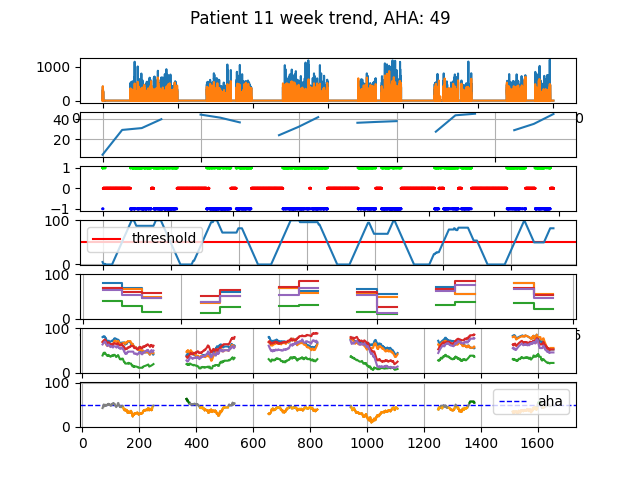
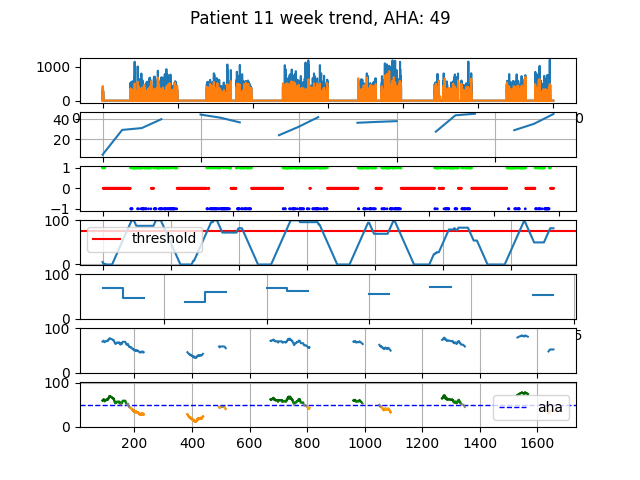
Aggiunto file per la correlazione TESI_plot_corcoeff

diff --git a/Rinnovo Val - Test/main_test.py b/Rinnovo Val - Test/main_test.py
@@ -33,7 +33,9 @@ best_estimators_df = pd.read_csv('best_estimators_results.csv', index_col=0).sor
 #estimators_specs_list.append(best_estimators_df[best_estimators_df['method'] == 'ai'].iloc[0])
 #estimators_specs_list.append(best_estimators_df[best_estimators_df['method'] == 'difference'].iloc[0])
 #estimators_specs_list = [row for index, row in best_estimators_df[(best_estimators_df['mean_test_score'] >= 0.975) & (best_estimators_df['window_size'] == 600)].iterrows()]
-estimators_specs_list = [row for index, row in best_estimators_df[(best_estimators_df['mean_test_score'] >= 0.938) & (best_estimators_df['window_size'] == 300)].iterrows()]
+#estimators_specs_list = [row for index, row in best_estimators_df[(best_estimators_df['mean_test_score'] >= 0.938) & (best_estimators_df['window_size'] == 300)].iterrows()]
+
+estimators_specs_list = [row for index, row in best_estimators_df[(best_estimators_df['mean_test_score'] >= 0.954) & (best_estimators_df['window_size'] == 300)].iterrows()]
 print('Expected estimators: ',len(estimators_specs_list))
 estimators_list = []
 model_id_concat = ''
@@ -223,6 +225,4 @@ metadata.to_csv(stats_folder + '/predictions_dataframe.csv')
 #metadata.plot.scatter(x='healthy_percentage', y='AI_week', c='MACS', colormap='viridis').get_figure().savefig(stats_folder + 'plot_healthyPerc_AI_week.png')
 #metadata.plot.scatter(x='healthy_percentage', y='AI_aha', c='MACS', colormap='viridis').get_figure().savefig(stats_folder + 'plot_healthyPerc_AI_aha.png')
 
-
 #print("Coefficiente di Pearson tra hp e aha:          ", (np.corrcoef(metadata['healthy_percentage'], metadata['AHA'].values))[0][1])
-

diff --git a/Rinnovo Val - Test/TESI_plot_corcoeff.py b/Rinnovo Val - Test/TESI_plot_corcoeff.py
@@ -1,0 +1,44 @@
+import hashlib
+import os
+import json
+import pandas as pd
+from sktime.base import BaseEstimator
+import joblib as jl
+import numpy as np
+from datetime import datetime
+import matplotlib
+import matplotlib.pyplot as plt
+
+from train_regressor import train_regressor
+from elaborate_magnitude import elaborate_magnitude
+from predict_samples import predict_samples
+
+
+if os.getlogin() == 'david':
+    data_folder = 'C:/Users/david/Documents/University/Tesi/Python AInCP/only AC/'
+elif os.getlogin() == 'giord':
+    data_folder = 'C:/Users/giord/Downloads/only AC data/only AC/'
+else:
+    data_folder = input("Enter the data folder path: ")
+
+# Cambio la directory di esecuzione in quella dove si trova questo file
+os.chdir(os.path.dirname(os.path.abspath(__file__)))
+
+predictions_dataframe = pd.read_csv('week_stats/predictions_dataframe.csv', index_col=0)
+
+predictions_dataframe['CPI'] = [float(string.strip('[]')) for string in predictions_dataframe['healthy_percentage']]
+print(type(predictions_dataframe['healthy_percentage'][0]))
+print(type(predictions_dataframe['AHA'][0]))
+print(type(predictions_dataframe['CPI'][0]))
+
+
+print(predictions_dataframe)
+
+print((np.corrcoef(predictions_dataframe['CPI'].values, predictions_dataframe['AHA'].values))[0][1])
+
+plt.scatter(predictions_dataframe['AHA'].values, predictions_dataframe['CPI'].values, c = predictions_dataframe['MACS'].values)
+plt.xlabel('AHA')
+plt.ylabel('CPI')
+#plt.legend(['a'], ['b'], ['c'])
+plt.show()
+plt.close()

diff --git a/Rinnovo Val - Test/main_train_validate.py b/Rinnovo Val - Test/main_train_validate.py
@@ -42,7 +42,7 @@ shapedtw_params =  {'shape_descriptor_function': ['raw', 'paa']}
 shapedtw = (shapedtw_type, shapedtw_params)
 
 l_method =              ['concat', 'difference', 'ai']              # ['concat','difference', 'ai']
-l_window_size =         [900]                                       # [300, 600, 900]
+l_window_size =         [300]                                       # [300, 600, 900]
 l_gridsearch_specs =    [kmeans, kmedoids, boss, shapedtw]          # [kmeans, kmedoids, cnn, boss, shapedtw]
 
 estimators_l = []
